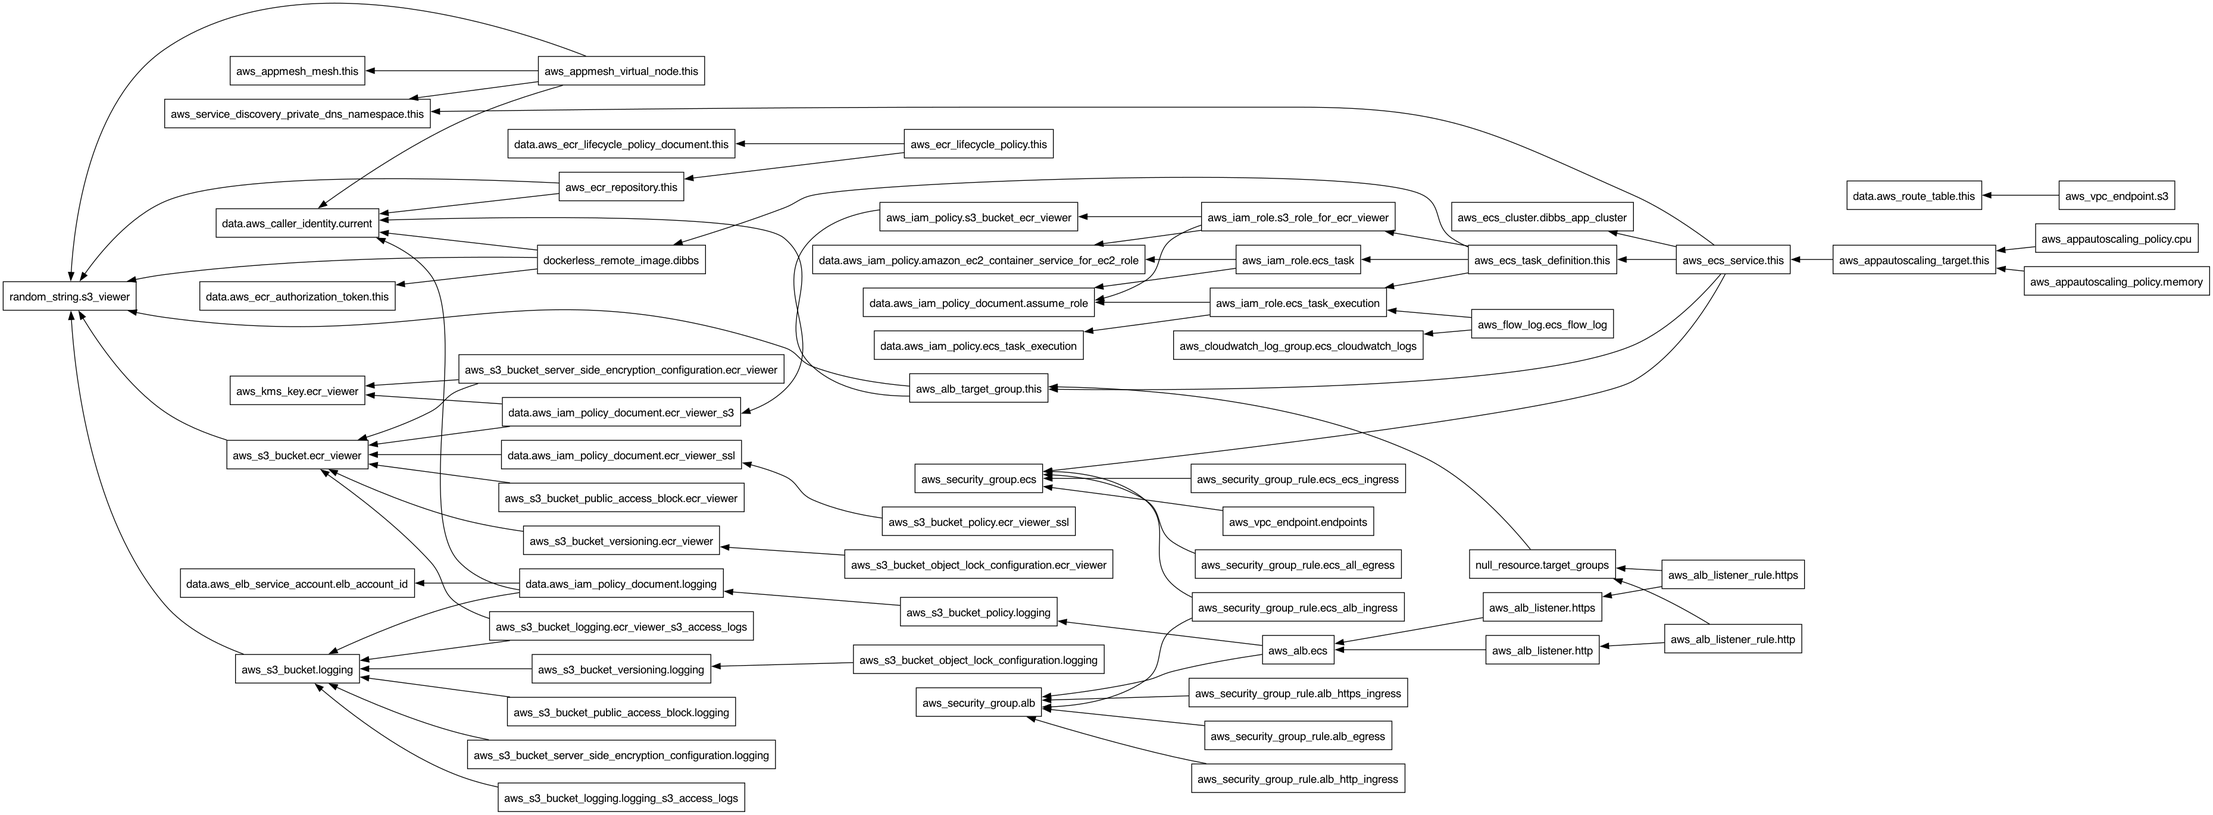
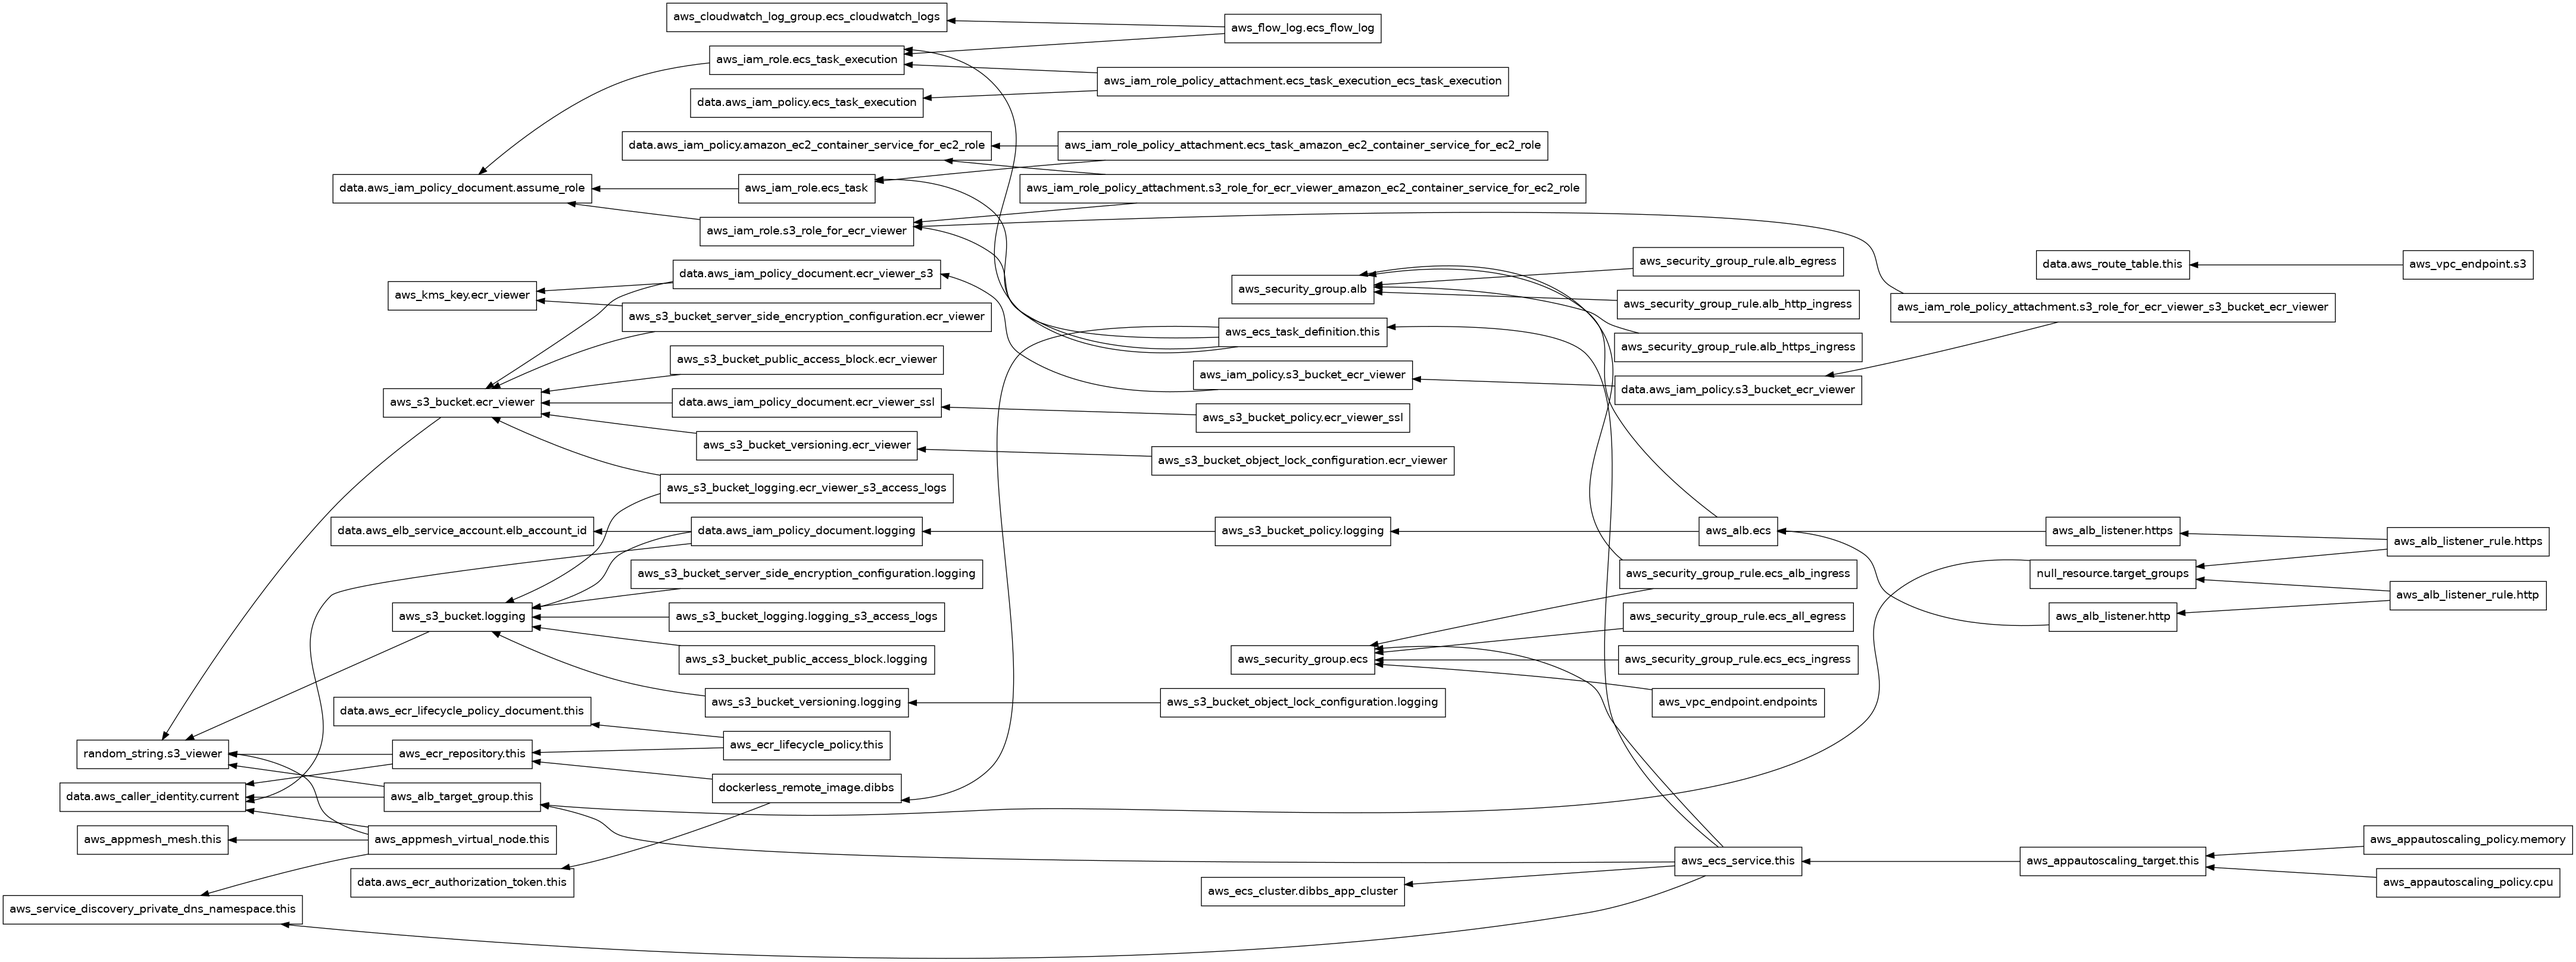
fix(iam): add create_before_destroy to prevent policy deletion errors

diff --git a/README.md b/README.md
@@ -112,7 +112,7 @@ The current architectural design for dibbs-aws is as follows:
 | Name | Version |
 |------|---------|
 | <a name="provider_aws"></a> [aws](#provider\_aws) | 5.86.1 |
-| <a name="provider_dockerless"></a> [dockerless](#provider\_dockerless) | 0.1.2 |
+| <a name="provider_dockerless"></a> [dockerless](#provider\_dockerless) | 0.1.3 |
 | <a name="provider_null"></a> [null](#provider\_null) | 3.2.4 |
 | <a name="provider_random"></a> [random](#provider\_random) | 3.6.3 |
 
@@ -146,6 +146,10 @@ No modules.
 | [aws_iam_role.ecs_task](https://registry.terraform.io/providers/hashicorp/aws/latest/docs/resources/iam_role) | resource |
 | [aws_iam_role.ecs_task_execution](https://registry.terraform.io/providers/hashicorp/aws/latest/docs/resources/iam_role) | resource |
 | [aws_iam_role.s3_role_for_ecr_viewer](https://registry.terraform.io/providers/hashicorp/aws/latest/docs/resources/iam_role) | resource |
+| [aws_iam_role_policy_attachment.ecs_task_amazon_ec2_container_service_for_ec2_role](https://registry.terraform.io/providers/hashicorp/aws/latest/docs/resources/iam_role_policy_attachment) | resource |
+| [aws_iam_role_policy_attachment.ecs_task_execution_ecs_task_execution](https://registry.terraform.io/providers/hashicorp/aws/latest/docs/resources/iam_role_policy_attachment) | resource |
+| [aws_iam_role_policy_attachment.s3_role_for_ecr_viewer_amazon_ec2_container_service_for_ec2_role](https://registry.terraform.io/providers/hashicorp/aws/latest/docs/resources/iam_role_policy_attachment) | resource |
+| [aws_iam_role_policy_attachment.s3_role_for_ecr_viewer_s3_bucket_ecr_viewer](https://registry.terraform.io/providers/hashicorp/aws/latest/docs/resources/iam_role_policy_attachment) | resource |
 | [aws_kms_key.ecr_viewer](https://registry.terraform.io/providers/hashicorp/aws/latest/docs/resources/kms_key) | resource |
 | [aws_s3_bucket.ecr_viewer](https://registry.terraform.io/providers/hashicorp/aws/latest/docs/resources/s3_bucket) | resource |
 | [aws_s3_bucket.logging](https://registry.terraform.io/providers/hashicorp/aws/latest/docs/resources/s3_bucket) | resource |
@@ -181,6 +185,7 @@ No modules.
 | [aws_elb_service_account.elb_account_id](https://registry.terraform.io/providers/hashicorp/aws/latest/docs/data-sources/elb_service_account) | data source |
 | [aws_iam_policy.amazon_ec2_container_service_for_ec2_role](https://registry.terraform.io/providers/hashicorp/aws/latest/docs/data-sources/iam_policy) | data source |
 | [aws_iam_policy.ecs_task_execution](https://registry.terraform.io/providers/hashicorp/aws/latest/docs/data-sources/iam_policy) | data source |
+| [aws_iam_policy.s3_bucket_ecr_viewer](https://registry.terraform.io/providers/hashicorp/aws/latest/docs/data-sources/iam_policy) | data source |
 | [aws_iam_policy_document.assume_role](https://registry.terraform.io/providers/hashicorp/aws/latest/docs/data-sources/iam_policy_document) | data source |
 | [aws_iam_policy_document.ecr_viewer_s3](https://registry.terraform.io/providers/hashicorp/aws/latest/docs/data-sources/iam_policy_document) | data source |
 | [aws_iam_policy_document.ecr_viewer_ssl](https://registry.terraform.io/providers/hashicorp/aws/latest/docs/data-sources/iam_policy_document) | data source |
@@ -221,7 +226,7 @@ No modules.
 | <a name="input_enable_autoscaling"></a> [enable\_autoscaling](#input\_enable\_autoscaling) | Flag to enable autoscaling for the ECS services | `bool` | `true` | no |
 | <a name="input_internal"></a> [internal](#input\_internal) | Flag to determine if the several AWS resources are public (intended for external access, public internet) or private (only intended to be accessed within your AWS VPC or avaiable with other means, a transit gateway for example). | `bool` | `true` | no |
 | <a name="input_logging_object_retention_days"></a> [logging\_object\_retention\_days](#input\_logging\_object\_retention\_days) | Number of days to retain S3 logging objects in compliance mode | `number` | `90` | no |
-| <a name="input_override_autoscaling"></a> [override\_autoscaling](#input\_override\_autoscaling) | Autoscaling configuration for the DIBBS services | <pre>map(object({<br/>    cpu           = number<br/>    memory        = number<br/>    min_capacity  = number<br/>    max_capacity  = number<br/>    target_cpu    = number<br/>    target_memory = number<br/>  }))</pre> | `{}` | no |
+| <a name="input_override_autoscaling"></a> [override\_autoscaling](#input\_override\_autoscaling) | Autoscaling configuration for the DIBBS services | <pre>map(object({<br>    cpu           = number<br>    memory        = number<br>    min_capacity  = number<br>    max_capacity  = number<br>    target_cpu    = number<br>    target_memory = number<br>  }))</pre> | `{}` | no |
 | <a name="input_owner"></a> [owner](#input\_owner) | Owner of the resources | `string` | `"CDC"` | no |
 | <a name="input_phdi_version"></a> [phdi\_version](#input\_phdi\_version) | Version of the PHDI application | `string` | `"v2.0.0-beta"` | no |
 | <a name="input_private_subnet_ids"></a> [private\_subnet\_ids](#input\_private\_subnet\_ids) | List of private subnet IDs | `list(string)` | n/a | yes |
@@ -238,7 +243,7 @@ No modules.
 | <a name="input_secrets_manager_sqlserver_host_version"></a> [secrets\_manager\_sqlserver\_host\_version](#input\_secrets\_manager\_sqlserver\_host\_version) | n/a | `string` | `""` | no |
 | <a name="input_secrets_manager_sqlserver_password_version"></a> [secrets\_manager\_sqlserver\_password\_version](#input\_secrets\_manager\_sqlserver\_password\_version) | n/a | `string` | `""` | no |
 | <a name="input_secrets_manager_sqlserver_user_version"></a> [secrets\_manager\_sqlserver\_user\_version](#input\_secrets\_manager\_sqlserver\_user\_version) | n/a | `string` | `""` | no |
-| <a name="input_service_data"></a> [service\_data](#input\_service\_data) | Data for the DIBBS services | <pre>map(object({<br/>    short_name        = string<br/>    app_repo          = string<br/>    app_image         = string<br/>    app_version       = string<br/>    container_port    = number<br/>    host_port         = number<br/>    public            = bool<br/>    registry_url      = string<br/>    root_service      = bool<br/>    listener_priority = number<br/>    env_vars = list(object({<br/>      name  = string<br/>      value = string<br/>    }))<br/>  }))</pre> | `{}` | no |
+| <a name="input_service_data"></a> [service\_data](#input\_service\_data) | Data for the DIBBS services | <pre>map(object({<br>    short_name        = string<br>    app_repo          = string<br>    app_image         = string<br>    app_version       = string<br>    container_port    = number<br>    host_port         = number<br>    public            = bool<br>    registry_url      = string<br>    root_service      = bool<br>    listener_priority = number<br>    env_vars = list(object({<br>      name  = string<br>      value = string<br>    }))<br>  }))</pre> | `{}` | no |
 | <a name="input_tags"></a> [tags](#input\_tags) | Tags to apply to resources | `map(string)` | `{}` | no |
 | <a name="input_vpc_id"></a> [vpc\_id](#input\_vpc\_id) | ID of the VPC | `string` | n/a | yes |
 
